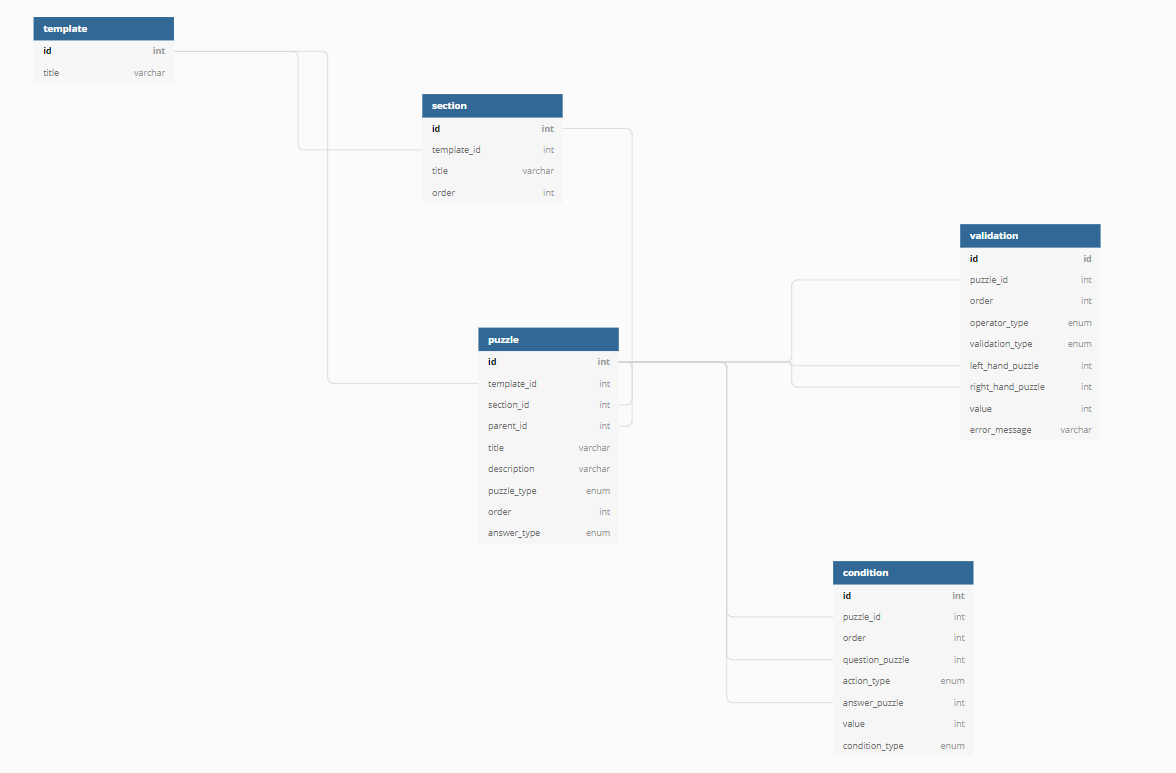
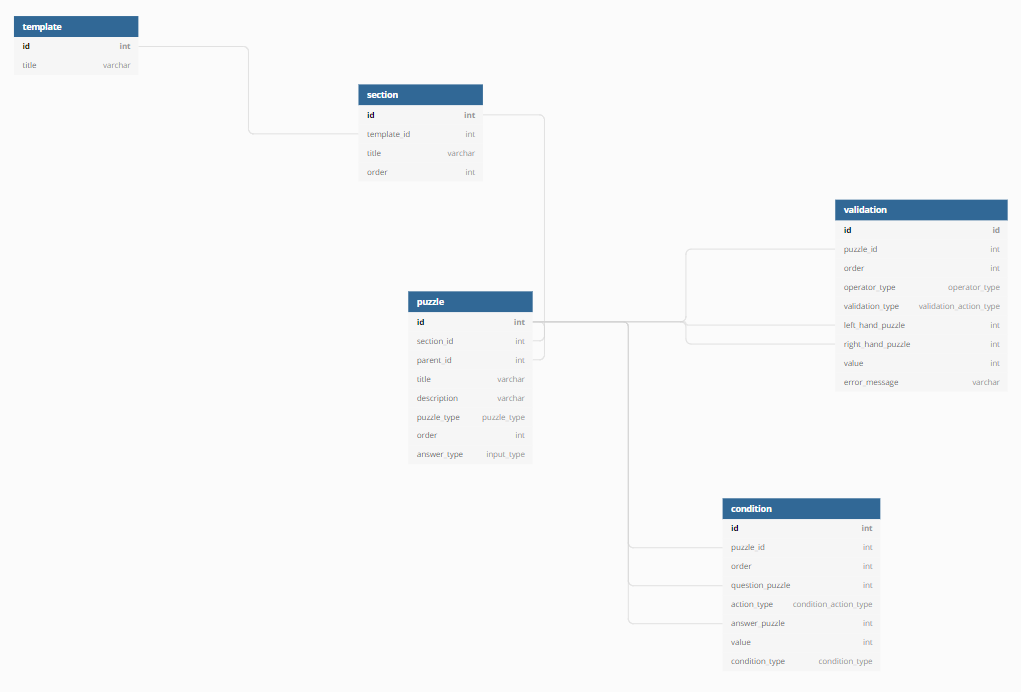
fix(template editor): adding groups & questions by specs

diff --git a/packages/template-editor/src/TemplateEditor.tsx b/packages/template-editor/src/TemplateEditor.tsx
@@ -33,7 +33,6 @@ export const TemplateEditor: React.FC<ITemplateEditorProps> = props => {
         props.initialState || {
             id: uuid(),
             sections: [],
-            puzzles: [],
             title: ETerminals.EMPTY,
             description: ETerminals.EMPTY,
         }
@@ -82,8 +81,11 @@ export const TemplateEditor: React.FC<ITemplateEditorProps> = props => {
             if (value.id !== focusedPuzzleId || !focusedPuzzleChain.includes(value.id)) {
                 return;
             }
-            // do not allow to add question in section, question, answer, etc...
-            if ("puzzleType" in value && !whitelist.includes(value.puzzleType)) {
+            // do not allow to add question in template, section, question, answer, etc...
+            if (
+                !("puzzles" in value) ||
+                ("puzzleType" in value && !whitelist.includes(value.puzzleType))
+            ) {
                 return;
             }
             const puzzle = value as IPuzzle;
@@ -114,24 +116,15 @@ export const TemplateEditor: React.FC<ITemplateEditorProps> = props => {
     }
 
     function onToolbarAddGroup(): void {
-        traverse(template, (value: any) => {
-            if (!focusedPuzzleChain.length) {
+        // if we are focused in template
+        // adding to first section if exists
+        if (template.sections.every(section => !focusedPuzzleChain.includes(section.id))) {
+            const firstSection = _.head(template.sections);
+            if (!firstSection) {
                 return;
             }
-            if (typeof value !== "object" || !("id" in value)) {
-                return;
-            }
-            const focusedPuzzleId = _.head(focusedPuzzleChain);
-            if (value.id !== focusedPuzzleId || !focusedPuzzleChain.includes(value.id)) {
-                return;
-            }
-            // do not allow to add group in group, question, etc...
-            if ("puzzleType" in value) {
-                return;
-            }
-            const puzzle = value as IPuzzle;
-            const prevPuzzle = puzzle.puzzles[puzzle.puzzles.length - 1];
-            puzzle.puzzles.push({
+            const prevPuzzle = firstSection.puzzles[firstSection.puzzles.length - 1];
+            firstSection.puzzles.push({
                 id: uuid(),
                 puzzles: [],
                 validations: [],
@@ -141,7 +134,26 @@ export const TemplateEditor: React.FC<ITemplateEditorProps> = props => {
                 puzzleType: EPuzzleType.GROUP,
                 order: (prevPuzzle || { order: -1 }).order + 1,
             });
-        });
+        }
+        // else adding to section which is in focused puzzle chain
+        else {
+            template.sections.forEach(section => {
+                if (!focusedPuzzleChain.includes(section.id)) {
+                    return;
+                }
+                const prevPuzzle = section.puzzles[section.puzzles.length - 1];
+                section.puzzles.push({
+                    id: uuid(),
+                    puzzles: [],
+                    validations: [],
+                    conditions: [],
+                    description: ETerminals.EMPTY,
+                    title: ETerminals.EMPTY,
+                    puzzleType: EPuzzleType.GROUP,
+                    order: (prevPuzzle || { order: -1 }).order + 1,
+                });
+            });
+        }
         setTemplate({ ...template });
     }
 
@@ -309,14 +321,7 @@ export const TemplateEditor: React.FC<ITemplateEditorProps> = props => {
                 onMouseDown={onPuzzleFocus.bind(undefined, template.id)}
                 onBlur={onPuzzleBlur}
             >
-                <ContentSection template={template} focused={focusedPuzzleId === template.id}>
-                    <Content
-                        puzzles={template.puzzles}
-                        onFocus={onPuzzleFocus}
-                        onBlur={onPuzzleBlur}
-                        isFocused={id => id === focusedPuzzleId}
-                    />
-                </ContentSection>
+                <ContentSection template={template} focused={focusedPuzzleId === template.id} />
             </SelectableBlockWrapper>
             {template.sections.map((section, index) => {
                 const focused = focusedPuzzleId === section.id;

diff --git a/packages/template-editor/src/entities/index.ts b/packages/template-editor/src/entities/index.ts
@@ -50,7 +50,7 @@ interface IValidation extends IOrdered {
     errorMessage: string;
 }
 
-export interface ITemplate extends ITitled, IWithId, IWithPuzzles<IPuzzle>, IWithDescription {
+export interface ITemplate extends ITitled, IWithId, IWithDescription {
     sections: ISection[];
 }
 

diff --git a/packages/frontend/src/containers/create-template/template.ts b/packages/frontend/src/containers/create-template/template.ts
@@ -76,7 +76,6 @@ export default {
             ],
         },
     ],
-    puzzles: [],
     title: "Ведомость работ",
     description: "Описание недостатков, которые необходимо устранить",
 };
